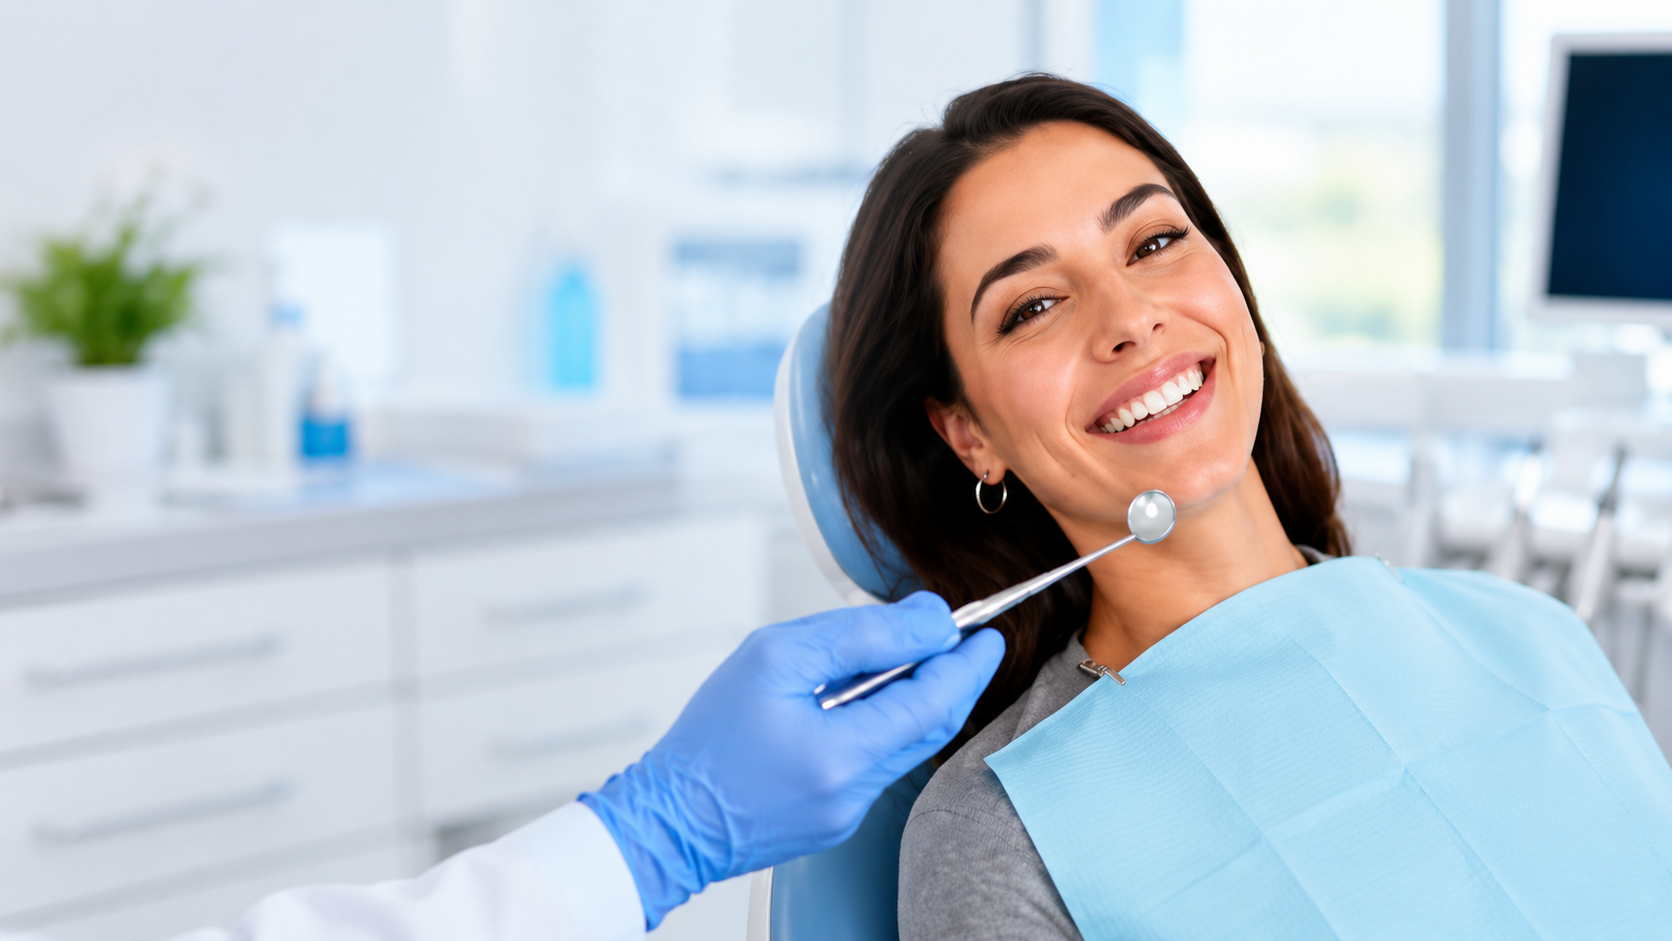
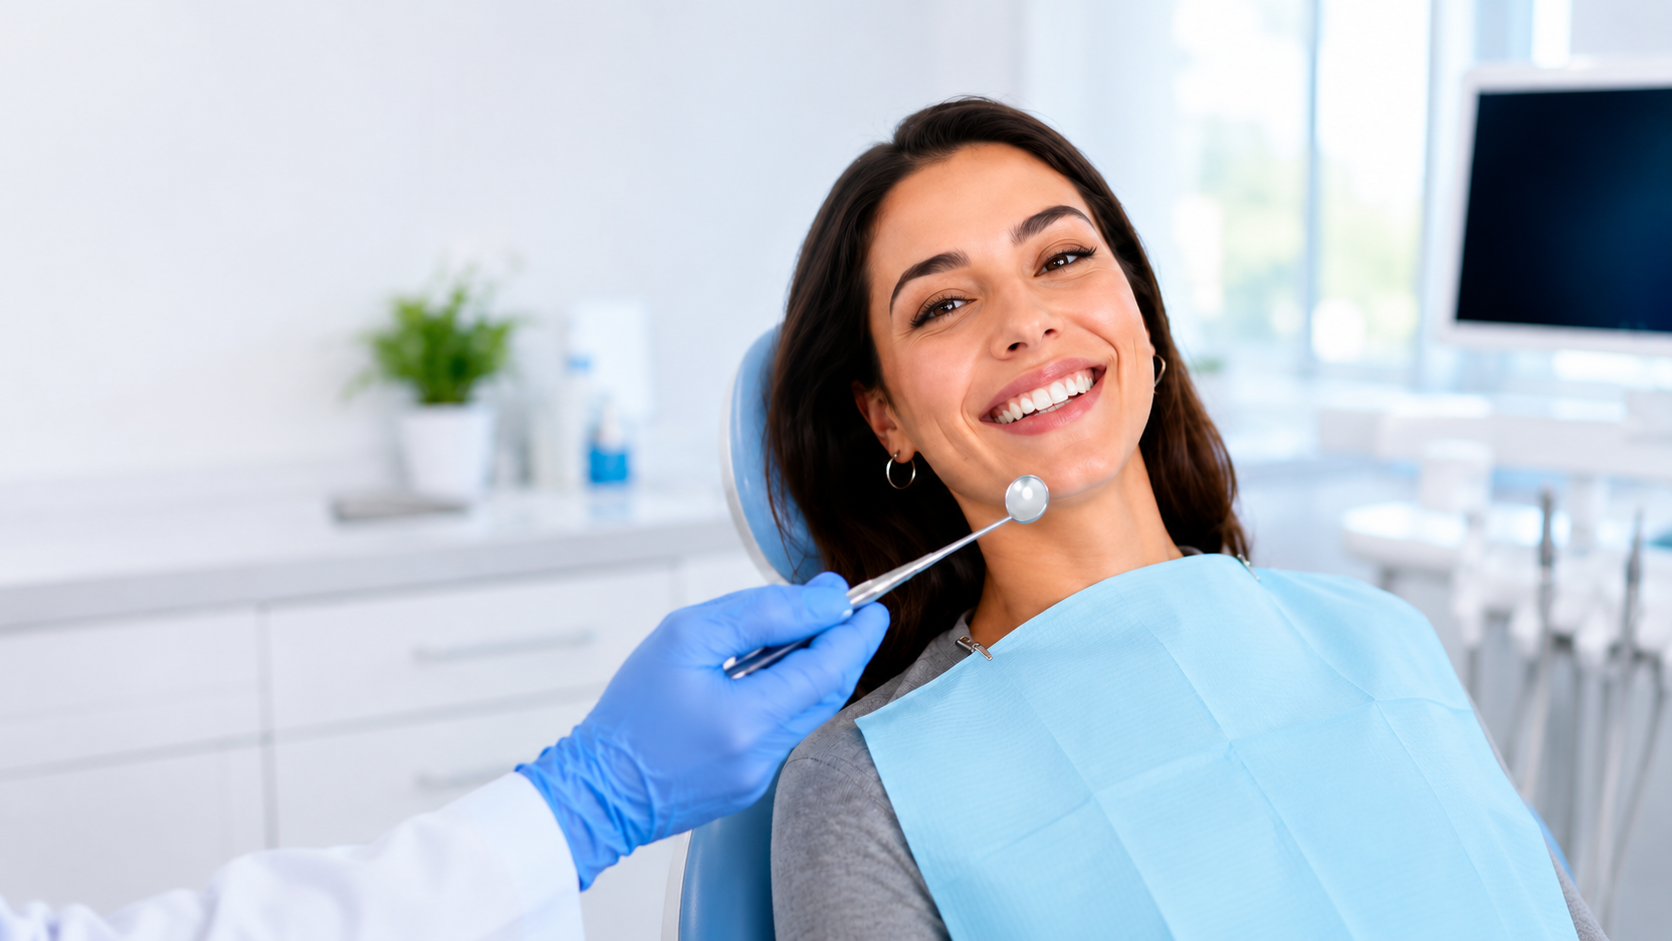
done

diff --git a/assets/css/style.css b/assets/css/style.css
@@ -213,9 +213,9 @@ select {
   position: absolute;
   z-index: -1;
   inset: 0;
-  background-image: linear-gradient(90deg, rgba(247, 250, 252, .98) 0%, rgba(247, 250, 252, .92) 28%, rgba(247, 250, 252, .25) 46%, rgba(247, 250, 252, 0) 72%), url(../images/hero/hero-img.png);
-  background-size: auto 680px;
-  background-position: 55% center;
+  background-image: linear-gradient(90deg, rgba(247, 250, 252, .98) 0%, rgba(247, 250, 252, .9) 27%, rgba(247, 250, 252, .32) 43%, rgba(247, 250, 252, 0) 68%), url(../images/hero/hero-img.png);
+  background-size: cover;
+  background-position: center 43%;
   background-repeat: no-repeat
 }
 
@@ -223,7 +223,8 @@ select {
   position: relative;
   height: 100%;
   display: grid;
-  grid-template-columns: 1fr 300px
+  grid-template-columns: 1fr 340px;
+  column-gap: 46px
 }
 
 .hero__copy {
@@ -320,6 +321,8 @@ select {
 
 .booking {
   align-self: start;
+  justify-self: end;
+  width: 300px;
   margin-top: 42px;
   padding: 23px 21px 17px;
   border-radius: 8px;
@@ -1247,7 +1250,7 @@ select {
   }
 
   .hero__grid {
-    grid-template-columns: 1fr 280px
+    grid-template-columns: 1fr 300px
   }
 
   .save__inner {
@@ -1307,8 +1310,8 @@ select {
   .hero__photo {
     height: 470px;
     background-image: linear-gradient(90deg, rgba(247, 250, 252, .93), rgba(247, 250, 252, .3)), url(../images/hero/hero-img.png);
-    background-size: auto 530px;
-    background-position: 57% center
+    background-size: cover;
+    background-position: 56% center
   }
 
   .hero__grid {
